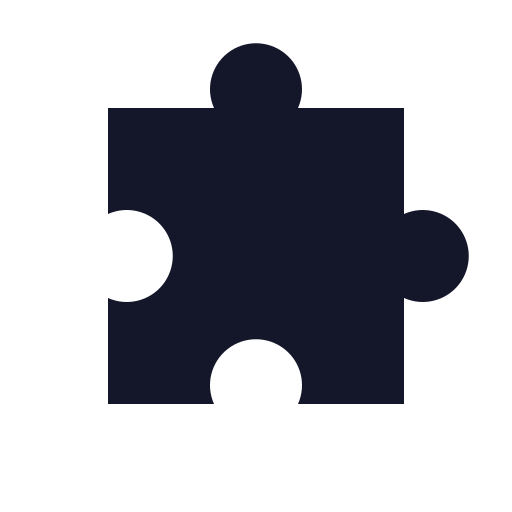
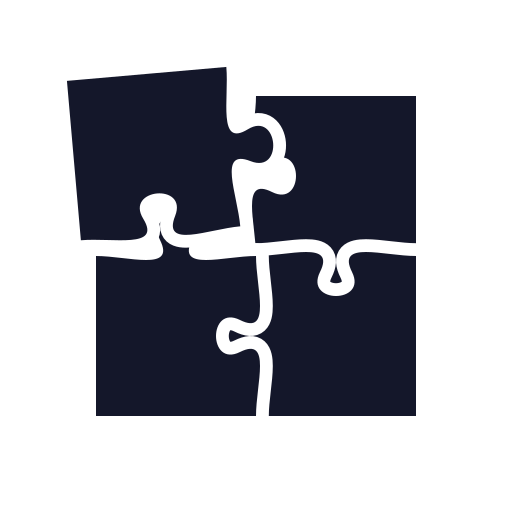
퍼즐 조각 로더·파비콘·앱 설치 버튼 — 판 로딩의 원형 스피너를 2×2 조각 애니메이션으로, 파비콘도 같은 그림으로, 헤더에 앱 설치(PWA 매니페스트)
- PieceLoader.astro: 조각 넷이 한 조각씩 들렸다 제자리에 들어가는 CSS 로더(엔진 tabSegs 와 같은 곡선). 판·상세 페이지의 .spin 을 대체, 로딩 문구는 검정 볼드
- scripts/icons.mjs 로 favicon.svg·32·64·apple-touch·192·512·maskable 생성, site.webmanifest(standalone) 를 Base 에 연결
- 헤더/메뉴에 '앱 설치' 버튼: beforeinstallprompt 를 붙들어 띄우고, iOS Safari 는 '홈 화면에 추가' 안내 다이얼로그. 5개 국어 문구(UI.app)
- 모바일 메뉴 시트가 3:4 비율·가로 폰에서 아래가 잘리던 것 — 화면 높이 안에서 스크롤

Claude-Session: https://claude.ai/code/session_015b49nio6ZPQfaqATeHJAGa

Changed region(s): [[0.125, 0.0625, 0.9375, 0.8125]]

diff --git a/src/i18n/ui/ja.ts b/src/i18n/ui/ja.ts
@@ -3,6 +3,7 @@ import type { UIStrings } from './ko';
 export const JA: UIStrings = {
   name: 'jigsawlab', altName: '', tagline: 'オンラインジグソーパズル。名画と自分の写真で、スマホでも。', langName: '日本語', seoTitle: 'jigsawlab — 名画と自分の写真で遊ぶ無料オンラインジグソーパズル', seoDesc: (n: number) => `名画・写真${n}点や自分の写真で作る無料のオンラインジグソーパズル。リンク一つで友だちを呼んで一緒に組め、合うピースはくっつき、途中の盤面は保存。48〜1000ピース、登録不要。`,
   nav: { daily: '今日のパズル', catalog: 'パズル', together: 'みんなのパズル', photo: '自分の写真で', play: '今すぐ遊ぶ', about: 'サイトについて', my: 'マイパズル', rank: 'ランキング' },
+  app: { install: 'アプリを入れる', installTitle: 'アプリとしてインストール', iosLead: 'Safari 下部の共有ボタンを押して「ホーム画面に追加」を選ぶと、ホーム画面からアプリのように開けます', iosStep1: '共有ボタン', iosStep2: 'ホーム画面に追加', otherLead: 'このブラウザは直接インストールに対応していません。Chrome・Edge か iPhone の Safari で開くとホーム画面にアプリとして追加できます' },
   hero: { today: '今日の絵', pieces: (n: number) => `${n}ピース`, cta: '今日のパズルを解く', photo: '自分の写真で作る', h1: '本物のジグソーを、\nスマホでも。', sub: '合うピースはくっついて塊で動き、色ごとに山に分け、途中の盤面は保存されます。リンク一つで友だちと一緒に組めます。', feats: ['合うピースはくっついて塊に', '色ごとに山を分ける', '途中の盤面はそのまま保存', '48ピースから1000ピースまで', 'リンク一つで友だちと一緒に', '自分の写真でも'], pick: 'パズルを選ぶ', statPuzzles: 'パズル', statSolved: '完成した盤面', todayLink: (t: string) => `今日の絵 · ${t} · 一緒に組む` },
   catalog: { title: 'パズル', sub: '', cats: 'カテゴリー', every: 'すべて', catH1: (name: string) => `${name}のパズル`, catTitle: (name: string, n: number) => `${name}のジグソーパズル${n}点 — 無料オンライン`, catDesc: (name: string, n: number) => `${name}の絵${n}点をオンラインのジグソーパズルで。48ピースから1000ピースまで好きな数に切り分けて遊べます。登録不要・無料。`, showAll: (n: number) => `全${n}点を見る`, prev: '前へ', next: '次へ', all: (n: number) => `全${n}点`, search: '題名・作家で検索', results: (n: number) => `${n}点`, none: '該当なし', noneAll: 'すべてから探す →', fav: 'お気に入り', favAdd: 'お気に入りに追加', more: (n: number) => `さらに${n}点`},
   photo: {

diff --git a/src/i18n/ui/ko.ts b/src/i18n/ui/ko.ts
@@ -3,6 +3,7 @@
 export const KO = {
   name: 'jigsawlab', altName: '직소랩', tagline: '직소랩 — 온라인 직소 퍼즐. 명화와 내 사진으로, 폰에서도.', langName: '한국어', seoTitle: '직소랩(jigsawlab) — 온라인 직소 퍼즐, 명화와 내 사진으로', seoDesc: (n: number) => `직소랩은 명화·사진 ${n}점과 내 사진으로 맞추는 무료 온라인 직소 퍼즐이에요. 링크 하나로 친구를 불러 같이 맞추고, 맞는 조각끼리 붙고, 하던 판은 저장돼요. 48조각부터 1000조각까지, 가입 없이 폰에서도.`,
   nav: { daily: '오늘의 퍼즐', catalog: '퍼즐', together: '모두의 퍼즐', photo: '내 사진으로', play: '지금 맞추기', about: '소개', my: '내 퍼즐', rank: '랭킹' },
+  app: { install: '앱 설치', installTitle: '앱으로 설치', iosLead: 'Safari 아래쪽의 공유 버튼을 누르고 "홈 화면에 추가"를 고르면 홈 화면에서 앱처럼 열려요', iosStep1: '공유 버튼', iosStep2: '홈 화면에 추가', otherLead: '이 브라우저는 바로 설치를 지원하지 않아요. Chrome·Edge 나 iPhone 의 Safari 에서 열면 홈 화면에 앱으로 추가할 수 있어요' },
   hero: { today: '오늘의 그림', pieces: (n: number) => `${n}조각`, cta: '오늘의 퍼즐 맞추기', photo: '내 사진으로 만들기', h1: '제대로 된 직소 퍼즐,\n폰에서도.', sub: '맞는 조각끼리 붙어서 뭉치로 움직이고, 색깔별로 더미를 나누고, 하던 판은 저장돼요. 링크 하나면 친구랑 같이 맞출 수 있어요.', feats: ['맞는 조각끼리 붙어서 뭉치로', '색깔별로 더미 나누기', '하던 판은 그대로 저장', '48조각부터 1000조각까지', '링크 하나로 친구랑 같이', '내 사진으로도'], pick: '퍼즐 고르기', statPuzzles: '퍼즐', statSolved: '완성된 판', todayLink: (t: string) => `오늘의 그림 · ${t} · 같이 맞추기` },
   catalog: { title: '퍼즐', sub: '', cats: '카테고리', every: '전체', catH1: (name: string) => `${name} 퍼즐`, catTitle: (name: string, n: number) => `${name} 퍼즐 ${n}점 — 무료 온라인 직소 퍼즐`, catDesc: (name: string, n: number) => `${name} 그림 ${n}점을 온라인 직소 퍼즐로. 48조각부터 1000조각까지 원하는 만큼 잘라 맞춰요. 가입도 설치도 없이 무료.`, showAll: (n: number) => `${n}점 전부 보기`, prev: '이전', next: '다음', all: (n: number) => `모두 ${n}점`, search: '제목·작가 검색', results: (n: number) => `${n}점`, none: '검색 결과가 없어요', noneAll: '전체에서 찾아보기 →', fav: '즐겨찾기', favAdd: '즐겨찾기에 추가', more: (n: number) => `${n}점 더 보기`},
   // /photo/ 랜딩 — 히어로에서 바로 업로드, 아래는 SEO 본문(body 는 About 의 seo 와 같은 HTML 문자열 방식)

diff --git a/src/i18n/ui/es.ts b/src/i18n/ui/es.ts
@@ -5,6 +5,7 @@ import type { UIStrings } from './ko';
 export const ES: UIStrings = {
   name: 'jigsawlab', altName: '', tagline: 'Rompecabezas en línea. Obras maestras y tus propias fotos, también en el móvil.', langName: 'Español', seoTitle: 'jigsawlab — Rompecabezas en línea gratis con obras maestras y tus fotos', seoDesc: (n: number) => `Rompecabezas en línea gratis con ${n} imágenes de dominio público o tus propias fotos. Manda un enlace y lo armáis juntos, las piezas que encajan se unen solas y tu tablero se guarda. De 48 a 1000 piezas, sin registro.`,
   nav: { daily: 'Reto de hoy', catalog: 'Rompecabezas', together: 'En común', photo: 'Tu foto', play: 'Jugar ya', about: 'Acerca de', my: 'Mis puzles', rank: 'Clasificación' },
+  app: { install: 'Instalar app', installTitle: 'Instalar como app', iosLead: 'Toca el botón Compartir en la parte inferior de Safari y elige "Añadir a pantalla de inicio": se abrirá como una app', iosStep1: 'Botón Compartir', iosStep2: 'Añadir a pantalla de inicio', otherLead: 'Este navegador no permite instalar directamente. Abre el sitio en Chrome, Edge o en Safari de iPhone para añadirlo a la pantalla de inicio como app' },
   hero: { today: 'Imagen de hoy', pieces: (n: number) => `${n} piezas`, cta: 'Armar el reto de hoy', photo: 'Hacer uno con mi foto', h1: 'Un rompecabezas de verdad,\nen el móvil.', sub: 'Las piezas que encajan se unen y se mueven en bloque, las separas en montones por color, y al salir tu tablero queda guardado. Manda un enlace y lo armáis entre varios.', feats: ['Las piezas que encajan se unen en bloques', 'Montones separados por color', 'Tu tablero se guarda solo', 'De 48 a 1000 piezas', 'Con un enlace, entre varios', 'También con tus propias fotos'], pick: 'Elegir rompecabezas', statPuzzles: 'rompecabezas', statSolved: 'tableros terminados', todayLink: (t: string) => `Imagen de hoy · ${t} · a armarlo juntos` },
   catalog: { title: 'Rompecabezas', sub: '', cats: 'Categorías', every: 'Todo', catH1: (name: string) => `Rompecabezas de ${name}`, catTitle: (name: string, n: number) => `Rompecabezas de ${name} — ${n} puzles en línea gratis`, catDesc: (name: string, n: number) => `${n} imágenes de ${name}, listas como rompecabezas en línea. De 48 a 1000 piezas, las que quieras. Gratis, sin registro y sin instalar nada.`, showAll: (n: number) => `Ver los ${n}`, prev: 'Anterior', next: 'Siguiente', all: (n: number) => `${n} rompecabezas`, search: 'Buscar por título o autor', results: (n: number) => `${n} rompecabezas`, none: 'No hay resultados', noneAll: 'Buscar en todos →', fav: 'Favoritos', favAdd: 'Añadir a favoritos', more: (n: number) => `Ver ${n} más`},
   photo: {

diff --git a/src/i18n/ui/de.ts b/src/i18n/ui/de.ts
@@ -4,6 +4,7 @@ import type { UIStrings } from './ko';
 export const DE: UIStrings = {
   name: 'jigsawlab', altName: '', tagline: 'Online-Puzzles. Meisterwerke und deine eigenen Fotos, auch auf dem Handy.', langName: 'Deutsch', seoTitle: 'jigsawlab — Kostenlose Online-Puzzles aus Meisterwerken und eigenen Fotos', seoDesc: (n: number) => `Kostenlose Online-Puzzles aus ${n} gemeinfreien Bildern oder deinen eigenen Fotos. Ein Link genügt, und ihr puzzelt zu zweit. Passende Teile rasten zusammen, dein Brett wird gespeichert. Von 48 bis 1000 Teile, ohne Anmeldung.`,
   nav: { daily: 'Tagespuzzle', catalog: 'Puzzles', together: 'Gemeinsam', photo: 'Dein Foto', play: 'Jetzt spielen', about: 'Über uns', my: 'Meine Puzzles', rank: 'Rangliste' },
+  app: { install: 'App installieren', installTitle: 'Als App installieren', iosLead: 'Tippe unten in Safari auf Teilen und wähle „Zum Home-Bildschirm“ – dann öffnet sich die Seite wie eine App', iosStep1: 'Teilen-Button', iosStep2: 'Zum Home-Bildschirm', otherLead: 'Dieser Browser kann nicht direkt installieren. Öffne die Seite in Chrome, Edge oder in Safari auf dem iPhone, um sie als App auf den Home-Bildschirm zu legen' },
   hero: { today: 'Bild des Tages', pieces: (n: number) => `${n} Teile`, cta: 'Tagespuzzle lösen', photo: 'Aus meinem Foto machen', h1: 'Ein echtes Puzzle,\nauf dem Handy.', sub: 'Passende Teile rasten ein und wandern als Gruppe weiter, du sortierst nach Farben in Stapel, und beim Verlassen bleibt alles erhalten. Ein Link, und ihr puzzelt gemeinsam.', feats: ['Passende Teile rasten zu Gruppen zusammen', 'Nach Farben in Stapel sortieren', 'Dein Brett wird laufend gespeichert', 'Von 48 bis 1000 Teile', 'Mit einem Link gemeinsam puzzeln', 'Auch mit eigenen Fotos'], pick: 'Puzzle aussuchen', statPuzzles: 'Puzzles', statSolved: 'gelöste Bretter', todayLink: (t: string) => `Bild des Tages · ${t} · gemeinsam lösen` },
   catalog: { title: 'Puzzles', sub: '', cats: 'Kategorien', every: 'Alle', catH1: (name: string) => `${name} — Puzzles`, catTitle: (name: string, n: number) => `${name} — ${n} kostenlose Online-Puzzles`, catDesc: (name: string, n: number) => `${n} Bilder aus ${name}, bereit als Online-Puzzle. Von 48 bis 1000 Teile, ganz wie du magst. Kostenlos, ohne Anmeldung, ohne Installation.`, showAll: (n: number) => `Alle ${n} zeigen`, prev: 'Zurück', next: 'Weiter', all: (n: number) => `${n} Puzzles`, search: 'Titel oder Künstler suchen', results: (n: number) => `${n} Puzzles`, none: 'Nichts gefunden', noneAll: 'In allen Puzzles suchen →', fav: 'Favoriten', favAdd: 'Zu Favoriten hinzufügen', more: (n: number) => `${n} weitere zeigen`},
   photo: {

diff --git a/src/i18n/ui/en.ts b/src/i18n/ui/en.ts
@@ -3,6 +3,7 @@ import type { UIStrings } from './ko';
 export const EN: UIStrings = {
   name: 'jigsawlab', altName: '', tagline: 'Online jigsaw puzzles. Masterpieces and your photos, on your phone.', langName: 'English', seoTitle: 'jigsawlab — Free online jigsaw puzzles from masterpieces and your photos', seoDesc: (n: number) => `Free online jigsaw puzzles from ${n} public-domain pictures or your own photos. Send one link and solve together with friends, pieces snap into clusters, and your board is saved. 48 to 1000 pieces, no sign-up.`,
   nav: { daily: "Today's puzzle", catalog: 'Puzzles', together: 'Open board', photo: 'Your photo', play: 'Play now', about: 'About', my: 'My puzzles', rank: 'Leaderboard' },
+  app: { install: 'Install app', installTitle: 'Install as an app', iosLead: 'Tap the Share button at the bottom of Safari and choose "Add to Home Screen" — it opens like an app from your home screen', iosStep1: 'Share button', iosStep2: 'Add to Home Screen', otherLead: 'This browser can\'t install directly. Open the site in Chrome, Edge, or Safari on iPhone to add it to your home screen as an app' },
   hero: { today: "Today's picture", pieces: (n: number) => `${n} pieces`, cta: "Solve today's puzzle", photo: 'Make one from my photo', h1: 'A real jigsaw,\non your phone.', sub: 'Pieces that fit snap together and move as a cluster, sort into piles by colour, and your board is saved when you leave. Send a link and solve it with friends.', feats: ['Matching pieces snap into clusters', 'Sort into piles by colour', 'Your board is saved as you go', 'From 48 to 1000 pieces', 'Play with friends from one link', 'Your own photos too'], pick: 'Pick a puzzle', statPuzzles: 'puzzles', statSolved: 'boards finished', todayLink: (t: string) => `Today's picture · ${t} · solve it together` },
   catalog: { title: 'Puzzles', sub: '', cats: 'Categories', every: 'All', catH1: (name: string) => `${name} jigsaw puzzles`, catTitle: (name: string, n: number) => `${name} jigsaw puzzles — ${n} free online puzzles`, catDesc: (name: string, n: number) => `${n} pictures from ${name}, ready to solve as online jigsaw puzzles. Anything from 48 to 1000 pieces. Free, no sign-up, no install.`, showAll: (n: number) => `Show all ${n}`, prev: 'Previous', next: 'Next', all: (n: number) => `${n} puzzles`, search: 'Search title or artist', results: (n: number) => `${n} puzzles`, none: 'No matches',  noneAll: 'Search all puzzles →', fav: 'Favourites', favAdd: 'Add to favourites', more: (n: number) => `Show ${n} more`},
   photo: {

diff --git a/src/lib/icons.ts b/src/lib/icons.ts
@@ -4,6 +4,9 @@ const PATHS: Record<string, string> = {
   globe: '<circle cx="12" cy="12" r="10"/><path d="M2 12h20"/><path d="M12 2a15.3 15.3 0 0 1 4 10 15.3 15.3 0 0 1-4 10 15.3 15.3 0 0 1-4-10 15.3 15.3 0 0 1 4-10z"/>',
   users: '<path d="M16 21v-2a4 4 0 0 0-4-4H6a4 4 0 0 0-4 4v2"/><circle cx="9" cy="7" r="4"/><path d="M22 21v-2a4 4 0 0 0-3-3.87"/><path d="M16 3.13a4 4 0 0 1 0 7.75"/>',
   user: '<path d="M19 21v-2a4 4 0 0 0-4-4H9a4 4 0 0 0-4 4v2"/><circle cx="12" cy="7" r="4"/>',
+  download: '<path d="M21 15v4a2 2 0 0 1-2 2H5a2 2 0 0 1-2-2v-4"/><polyline points="7 10 12 15 17 10"/><line x1="12" y1="15" x2="12" y2="3"/>',
+  share: '<path d="M4 12v8a2 2 0 0 0 2 2h12a2 2 0 0 0 2-2v-8"/><polyline points="16 6 12 2 8 6"/><line x1="12" y1="2" x2="12" y2="15"/>',
+  'plus-square': '<rect x="3" y="3" width="18" height="18" rx="2"/><line x1="12" y1="8" x2="12" y2="16"/><line x1="8" y1="12" x2="16" y2="12"/>',
   smile: '<circle cx="12" cy="12" r="10"/><path d="M8 14s1.5 2 4 2 4-2 4-2"/><line x1="9" y1="9" x2="9.01" y2="9"/><line x1="15" y1="9" x2="15.01" y2="9"/>',
   'user-plus': '<path d="M16 21v-2a4 4 0 0 0-4-4H6a4 4 0 0 0-4 4v2"/><circle cx="9" cy="7" r="4"/><path d="M19 8v6"/><path d="M22 11h-6"/>',
   eye: '<path d="M2 12s3-7 10-7 10 7 10 7-3 7-10 7-10-7-10-7Z"/><circle cx="12" cy="12" r="3"/>',

diff --git a/CLAUDE.md b/CLAUDE.md
@@ -86,6 +86,10 @@
 - 헤더 나비는 다섯 항목이 한계다. 낱말 길이가 언어마다 달라(재 본 값: 나비·언어칸·로그인 버튼까지 한 줄에 세우는 데 ko 983 · en 1149 · ja 1194px) 여섯이면 글자가 두 줄로 접힌다. 그래서 `랭킹`·`소개` 는 `sheetOnly` 로 메뉴·바닥글에만 두고, 영어·일본어는 1024px 아래에서 햄버거로 넘긴다(`Base.astro` 미디어쿼리)
 - 화면 셋으로 나뉜다. `/play/` 고르기 · `/photo/` 내 사진으로 만들기 · `/board/` 판. 판만 쿼리를 받고 나머지는 링크를 건다
 - 딥링크(판 `/board/`): `?k=<key>&n=<조각>` 그림, `?daily=1|YYYY-MM-DD` 오늘의 퍼즐, `?resume=<id>` 하던 퍼즐, `?room=<id>` 방(`room=live` 면 상설 공개 판), `?photo=<id>&n=<조각>[&together=1]` `/photo/` 에서 고른 사진(파일은 URL 로 못 넘기니 IndexedDB 에 임시 저장 후 id 만 전달), 없음 → `/play/` 로. 부팅은 2단계: `PlayBoot.astro`(head 인라인, 첫 페인트 전에 `html[data-boot]` 로 로딩 화면·원본 preload) → `Jigsaw.astro` 의 `boot()`(실제 분기). 판을 떠날 때는 `goPick()` 이 `/play/` 로 보내고, 알릴 말은 `sessionStorage` 의 `jl:toast` 로 넘긴다
+- **파비콘·홈 화면 아이콘은 `node scripts/icons.mjs` 로 만든다** — `PieceLoader.astro` 의 조각 경로를 읽어 로더와 같은 그림으로 `public/` 에 7개(favicon.svg·32·64, apple-touch-icon 180, icon-192·512, icon-512-maskable). 탭용은 맞춰진 판, 홈 화면용은 왼쪽 위 조각이 들린 판. 손으로 그리지 말고 스크립트를 고쳐 다시 뽑을 것. `public/site.webmanifest`(standalone, 192·512·maskable) 를 `Base.astro` 가 `rel="manifest"` 로 건다 — 안드로이드·데스크톱 Chrome 이 '앱 설치'를 띄우는 근거
+- **헤더 '앱 설치' 버튼**(`#install-btn`, 메뉴 시트의 `#menu-install`) — 설치할 수 있을 때만 보인다: Chrome·Edge 는 `beforeinstallprompt` 를 붙들어 두었다가 버튼에서 `prompt()`, iOS Safari 는 프롬프트가 없어 '공유 → 홈 화면에 추가' 안내 다이얼로그(`#install-dlg`, 문구 `UI[lang].app`). 이미 앱으로 열렸으면(`display-mode: standalone`) 숨긴다. 모바일 헤더는 폭이 없어 아이콘만(40px), 데스크톱은 아이콘+글자. 테스트는 `dispatchEvent(new Event('beforeinstallprompt'))` 에 `prompt`·`userChoice` 를 얹어 흉내 낸다
+- 모바일 메뉴 시트(`.menu-sheet`)는 `max-height: calc(100% - 헤더 - 24px)` 로 화면 높이 안에서 스크롤한다 — 항목이 아홉 줄이라 3:4 비율·가로 폰에서는 아래가 잘렸다
+- **로딩 표시는 `PieceLoader.astro`** — 직소 조각 넷(2×2 바람개비)이 한 조각씩 시계 방향으로 들렸다 제자리에 딱 들어가고 그 순간 판이 살짝 튄다(한 바퀴 4.8초). `/board/` 로딩 화면과 `/puzzle/` 의 방 만들기가 쓴다. 첫 페인트 전 `html[data-boot]` 화면이라 JS 없이 CSS 만이고, 조각 곡선은 엔진 `tabSegs`(T=0.1, 흔들림 0)와 같은 모양이라 판 위 조각과 한 식구로 보인다. 조각마다 `<svg>` 하나인 이유: 들린 조각이 이웃 위로 올라와야 하는데(z-index) svg 안에서는 문서 순서가 곧 쌓임 순서다. 움직임 줄이기면 맞춰진 채 정지 — Base 의 전역 규칙이 duration 을 .01ms 로 줄여 깜빡이므로 `animation: none`. 손볼 때는 `animation-play-state: paused` + 음수 `animation-delay` 로 시각을 골라 프레임을 한 장에 늘어놓고 찍는 편이 빠르다
 - 진열대: 홈·`/play/` 는 세로 그리드 `.shelf-grid.capped` 로 카테고리마다 앞 10점만 보이고 `.shelf-more` 버튼으로 펼침(`shelf.ts` 의 `initShelfMore`, 검색 중엔 `.shelf.searching` 으로 전부 표시). 앞줄에 세울 대표작 순서는 `src/data/popular.ts`(키가 틀리면 빌드 실패). 상세 페이지의 가로 진열대 `.shelf-row` 는 `shelf.ts` 가 PC 용 좌우 화살표·마우스 드래그를 붙임(Base.astro 에서 초기화)
 - `public/jigsaw/` 명화 `<key>.jpg`(1200px) · `t-<key>.jpg`(썸네일) · `o-<key>.jpg`(OG 400²)
 - 조각 되돌리기: 판 위 조각을 트레이 위에서 놓으면 트레이로 돌아간다(`returnToTray`). **한 조각짜리만** — 붙여 둔 뭉치가 손이 미끄러져 통째로 흩어지면 곤란하고, 방에서도 서버 `untake` 가 한 조각짜리만 받는다. 트레이에 세울 때는 `toTray()` 를 쓴다: `order`(저장되는 트레이 순서)에 다시 넣지 않으면 색상 정렬 뒤 되돌린 조각이 저장에서 빠져 이어하기 때 판에도 트레이에도 없이 사라진다
